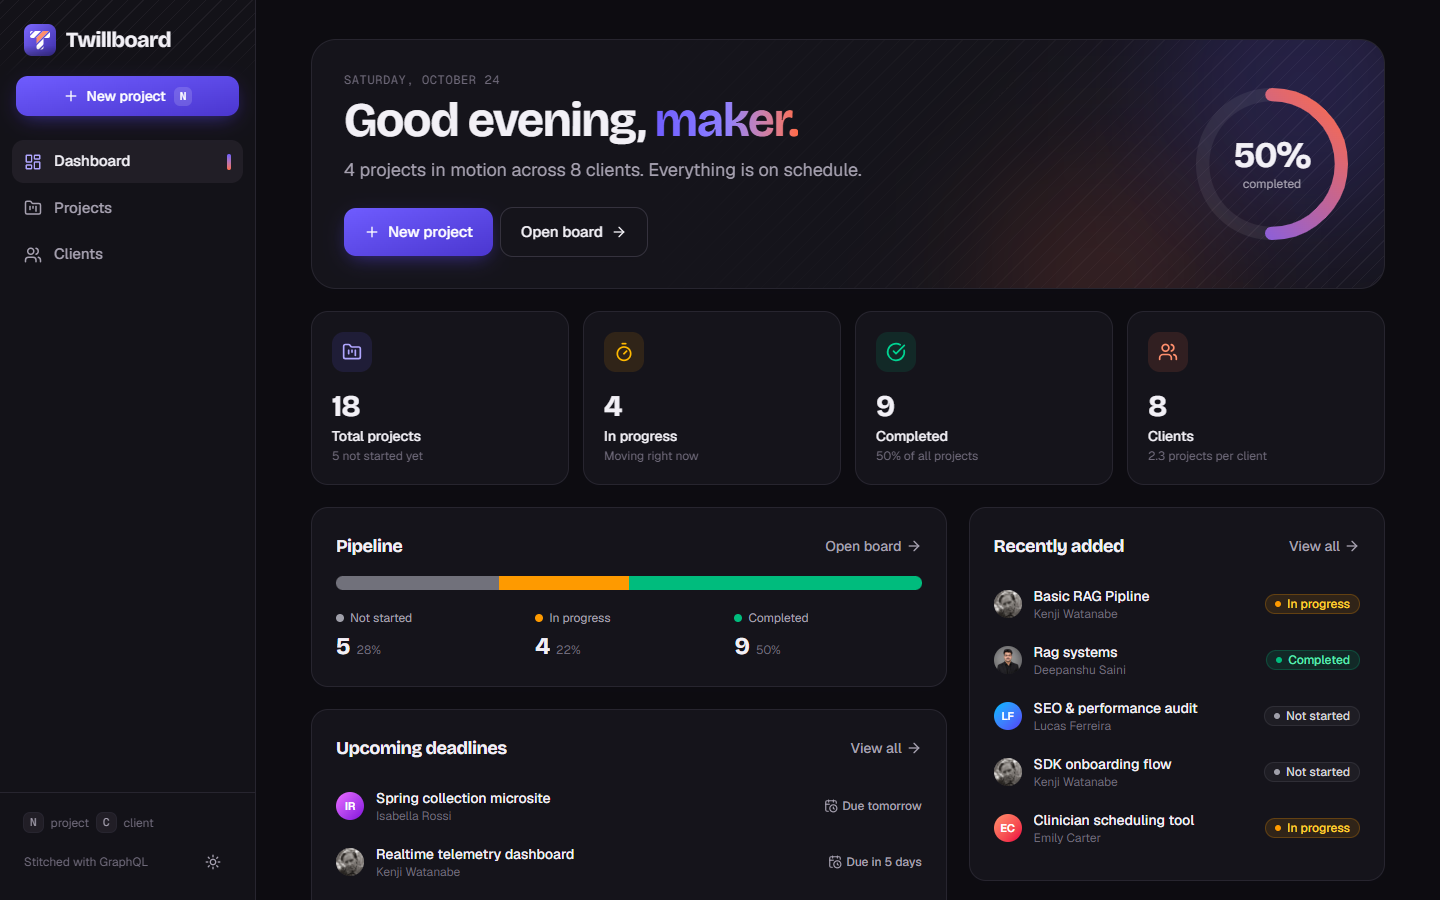
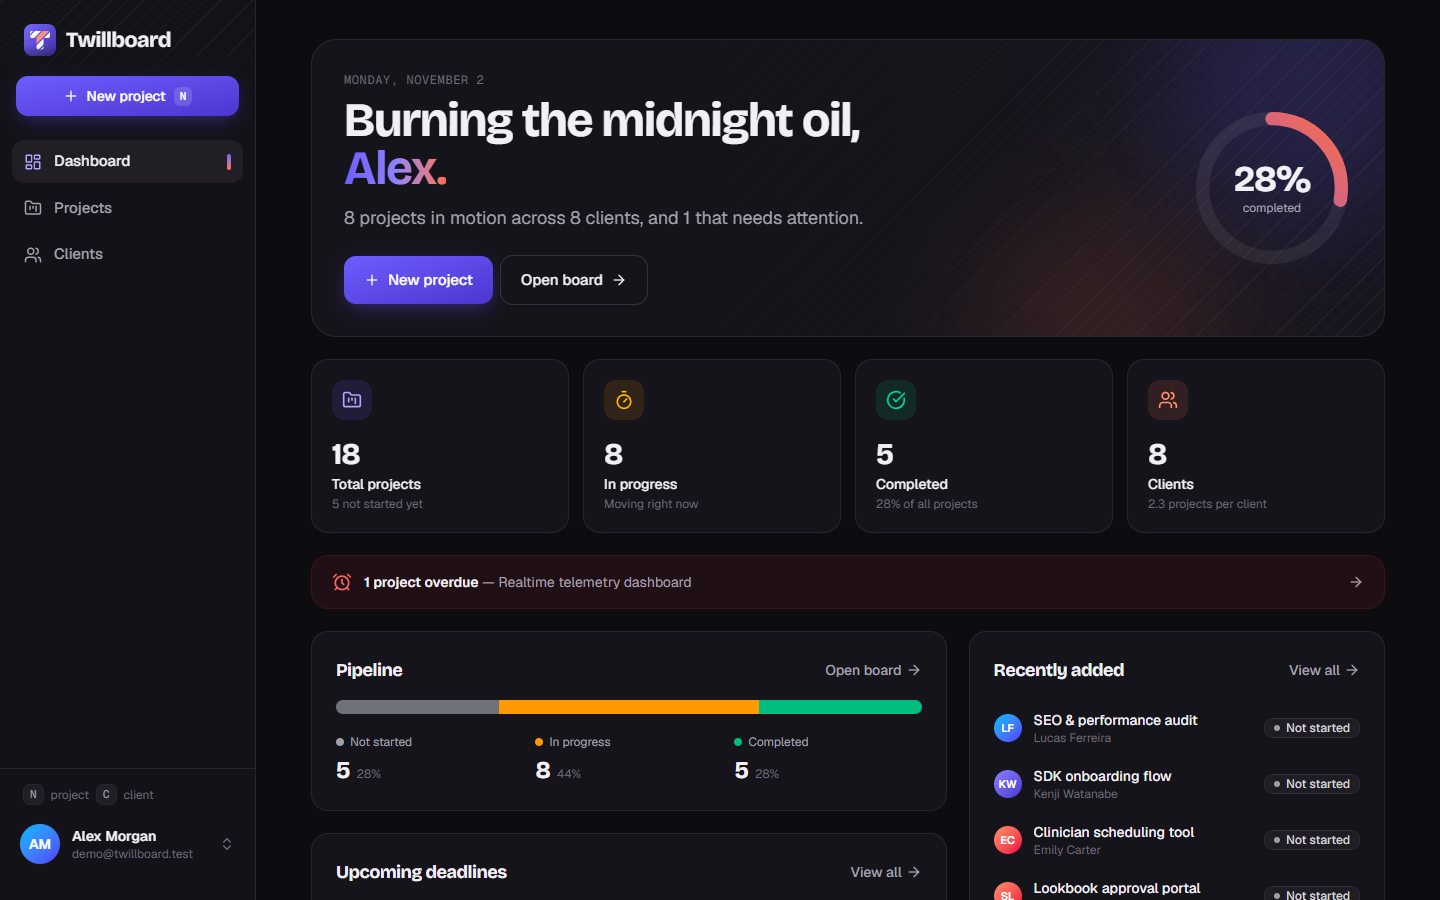
Bring the README up to date with the current app
Retake the screenshots, which predated accounts, and add new ones. Document
the features, environment variables, REST endpoints and deployment steps
added since the last update, and link the live app.

diff --git a/README.md b/README.md
@@ -8,12 +8,16 @@
 
 A calm, fast project manager for freelancers and small studios — built with React 19, GraphQL, Express 5 and MongoDB.
 
+**[Open the live app →](https://twillboard.vercel.app)**
+
 ![React](https://img.shields.io/badge/React-19-61dafb?logo=react&logoColor=white)
 ![GraphQL](https://img.shields.io/badge/GraphQL-Yoga-e10098?logo=graphql&logoColor=white)
 ![Express](https://img.shields.io/badge/Express-5-000?logo=express&logoColor=white)
 ![MongoDB](https://img.shields.io/badge/MongoDB-Mongoose_9-47a248?logo=mongodb&logoColor=white)
 ![Tailwind](https://img.shields.io/badge/Tailwind_CSS-4-38bdf8?logo=tailwindcss&logoColor=white)
 ![Vite](https://img.shields.io/badge/Vite-8-646cff?logo=vite&logoColor=white)
+![Better Auth](https://img.shields.io/badge/Auth-Better_Auth-111?logoColor=white)
+![Vercel](https://img.shields.io/badge/Deployed_on-Vercel-000?logo=vercel&logoColor=white)
 
 <br />
 
@@ -23,32 +27,65 @@ A calm, fast project manager for freelancers and small studios — built with Re
 
 ## Features
 
-- **Accounts** — sign up with email and password or with Google, GitHub or Microsoft. Email verification, password reset, linked sign-in methods, active-session management and account deletion. Every workspace is private.
-- **Dashboard** — greeting, completion ring, stat tiles, pipeline breakdown, upcoming deadlines, recent projects and top clients.
-- **Kanban board** — drag cards between *Not started → In progress → Completed*. Updates are optimistic (instant) and roll back if the server rejects them.
-- **Grid view with filters** — full-text search, status / priority filters and sorting. Every filter lives in the URL, so views are shareable and survive a refresh.
+**Accounts**
+
+- **Sign in your way** — email and password, or Google, GitHub and Microsoft. Every workspace is private to its account.
+- **Email flows** — verification on sign-up, password reset, and a notice if someone tries to register with your address.
+- **Account page** — name and profile photo (uploaded from your device), linked sign-in methods, password change, a list of signed-in devices you can sign out, and account deletion.
+- **Clear feedback** — a "Signing out…" dialog, friendly messages for failed or cancelled provider sign-ins, and social buttons that reset if you come back with the browser's Back button.
+- **Privacy policy** — a public page at [`/privacy`](https://twillboard.vercel.app/privacy), linked from the sign-in screens.
+
+**Work**
+
+- **Dashboard** — time-of-day greeting, completion ring, stat tiles, overdue alert, pipeline breakdown, upcoming deadlines, recently added projects and top clients.
+- **Kanban board** — drag cards between *Not started → In progress → Completed*, or add a project straight into a column. Updates are optimistic (instant) and roll back if the server rejects them.
+- **Grid view with filters** — full-text search, status and priority filters, and sorting. Every filter lives in the URL, so views are shareable and survive a refresh.
 - **Projects** — priority, due dates with “due in 3 days” / overdue tracking, and a one-click status switcher.
-- **Clients** — profiles with contact links, company, and a progress thread showing how their projects are going. Deleting a client tells you exactly how many projects go with them.
-- **Validation everywhere** — instant client-side checks that mirror the server's Mongoose rules, with server errors mapped back onto the right field.
+- **Clients** — searchable profiles with contact links, company, and a progress thread showing how their projects are going. Photos can be uploaded or linked by URL, and fall back to coloured initials.
+- **New client wizard** — enter the client's details, then optionally add their first project in the same dialog, or just add the client for now.
+- **Safe deletes** — deleting a client or project asks you to type its name first. Deleting a client also tells you exactly how many projects go with them.
+
+**Files**
+
+- **Attachments** — images, videos, PDFs and Office documents, added while creating or editing a project or on its page. Up to 20 files per project, 10 MB each (videos 100 MB).
+- **Direct uploads** — files go straight to Cloudinary with live progress. A failed upload offers **Retry**, and files from a cancelled form are cleaned up.
+- **Attachment viewer** — images, videos and PDFs preview in-app, and Office files open in Microsoft's online viewer. Previews load lazily over a blurred thumbnail with their space reserved, so the dialog doesn't jump. Move between files with the arrow keys, open them in a new tab, or download them.
+
+**Interface**
+
 - **Light & dark themes** — follows your OS, remembers your choice, no flash on load.
-- **Attachments** — add images, videos, PDFs and Office documents while creating or editing a project, or on its page. Uploads go straight to Cloudinary with live progress; images, videos and PDFs preview in-app, Office files open in Microsoft's online viewer.
-- **Client photos** — upload from the device or paste an image URL; falls back to coloured initials.
+- **Custom controls** — themed dropdowns and a date picker with shortcuts like *Tomorrow* and *Next week*.
 - **Keyboard shortcuts** — <kbd>N</kbd> new project, <kbd>C</kbd> new client.
+- **Validation everywhere** — instant client-side checks that mirror the server's Mongoose rules, with server errors mapped back onto the right field.
 - **Responsive** — sidebar on desktop, top bar + floating tab bar on mobile.
 - **Accessible** — native `<dialog>` modals (focus trap, <kbd>Esc</kbd>), labelled controls, `aria-invalid` errors, reduced-motion support.
 
+### Screenshots
+
 <table>
   <tr>
-    <td><img src="docs/screenshots/board-light.png" alt="Kanban board" /></td>
-    <td><img src="docs/screenshots/dashboard-dark.png" alt="Dashboard in dark mode" /></td>
+    <td width="50%"><img src="docs/screenshots/board-light.png" alt="Kanban board" /><br /><sub>Kanban board</sub></td>
+    <td width="50%"><img src="docs/screenshots/grid-dark.png" alt="Grid view with filters in dark mode" /><br /><sub>Grid view with filters</sub></td>
   </tr>
   <tr>
-    <td><img src="docs/screenshots/new-project-modal.png" alt="New project dialog" /></td>
-    <td><img src="docs/screenshots/project-detail-dark.png" alt="Project detail in dark mode" /></td>
+    <td><img src="docs/screenshots/dashboard-dark.png" alt="Dashboard in dark mode" /><br /><sub>Dashboard in dark mode</sub></td>
+    <td><img src="docs/screenshots/clients-light.png" alt="Clients" /><br /><sub>Clients</sub></td>
   </tr>
   <tr>
-    <td><img src="docs/screenshots/clients-light.png" alt="Clients" /></td>
-    <td align="center"><img src="docs/screenshots/mobile-dark.png" alt="Mobile" width="45%" /></td>
+    <td><img src="docs/screenshots/new-client-wizard.png" alt="New client dialog, on the optional first project step" /><br /><sub>New client, with an optional first project</sub></td>
+    <td><img src="docs/screenshots/new-project-modal.png" alt="New project dialog" /><br /><sub>New project</sub></td>
+  </tr>
+  <tr>
+    <td><img src="docs/screenshots/project-detail-dark.png" alt="Project page with attachments in dark mode" /><br /><sub>Project page with attachments</sub></td>
+    <td><img src="docs/screenshots/attachment-viewer.png" alt="Attachment viewer" /><br /><sub>Attachment viewer</sub></td>
+  </tr>
+  <tr>
+    <td><img src="docs/screenshots/sign-in-light.png" alt="Sign-in page" /><br /><sub>Sign in</sub></td>
+    <td><img src="docs/screenshots/account-dark.png" alt="Account page in dark mode" /><br /><sub>Account</sub></td>
+  </tr>
+  <tr>
+    <td><img src="docs/screenshots/delete-confirm.png" alt="Typed confirmation before deleting a project" /><br /><sub>Type the name to delete</sub></td>
+    <td align="center"><img src="docs/screenshots/mobile-dark.png" alt="Mobile layout in dark mode" width="45%" /><br /><sub>Mobile</sub></td>
   </tr>
 </table>
 
@@ -62,6 +99,7 @@ A calm, fast project manager for freelancers and small studios — built with Re
 | Database | MongoDB Atlas via Mongoose 9 with schema validation, timestamps and indexes |
 | Auth | Better Auth (self-hosted, MongoDB adapter): email/password + OAuth (Google, GitHub, Microsoft), Gmail SMTP via Nodemailer |
 | Files | Cloudinary signed direct uploads, on-the-fly thumbnails, automatic cleanup on delete |
+| Hosting | Vercel (CDN + one Vercel Function), MongoDB Atlas, Cloudinary |
 | Runtime | Node.js 24 LTS (built-in `--watch` and `--env-file`, no nodemon/dotenv) |
 
 ### Architecture notes
@@ -71,6 +109,7 @@ A calm, fast project manager for freelancers and small studios — built with Re
 - **Typed enums end to end.** `ProjectStatus` / `ProjectPriority` are GraphQL enums mapped to the strings stored in MongoDB.
 - **Safe errors.** Validation, bad IDs and duplicate emails become `BAD_USER_INPUT` errors with per-field messages; unexpected errors are masked in production.
 - **Fail fast.** The server validates its environment and database connection at startup with clear messages, and shuts down gracefully.
+- **Built for serverless.** The app and its database connection are created once per function instance and reused. Emails and auth background work use `waitUntil`, so they finish after the response is sent.
 - **Optional features degrade gracefully.** `GET /api/config` tells the client what's enabled; with no file storage configured, upload controls simply don't appear.
 - **Uploads never touch the API.** The server signs a short-lived Cloudinary upload restricted to the user's own folder; the browser uploads directly, and GraphQL only accepts metadata for files in that folder.
 
@@ -87,13 +126,14 @@ A calm, fast project manager for freelancers and small studios — built with Re
 | **OAuth** | Google, GitHub and Microsoft with `state` + PKCE. Provider tokens are stored encrypted (XChaCha20-Poly1305). Accounts link automatically only when the provider has verified the email. |
 | **CSRF & redirects** | Auth requests are checked against trusted origins (Origin + Fetch Metadata); `callbackURL`s outside the app are refused, and the client only follows same-app redirects. |
 | **Authorization** | Every client, project and file has an owner. All reads and writes are scoped to the signed-in user, so another user's ID behaves like one that doesn't exist. |
-| **API hardening** | GraphQL depth (8) and alias (15) limits, 100 KB request cap, schema introspection and "did you mean" hints disabled in production, unexpected errors masked. |
-| **Headers** | Helmet with a strict Content-Security-Policy (no inline scripts), HSTS, `frame-ancestors 'none'`, `nosniff` and a strict referrer policy in production. |
+| **Uploads** | Short-lived signatures per account (60 / minute), restricted to the user's own folder. A file is only saved if its URL is exactly that user's upload. Profile photos are upload-only and can't be set to an arbitrary link. |
+| **API hardening** | GraphQL depth (8) and alias (15) limits, a 100 KB request cap enforced by counting bytes, schema introspection and "did you mean" hints disabled in production, unexpected errors masked. |
+| **Headers** | A strict Content-Security-Policy (no inline scripts), HSTS, `frame-ancestors 'none'`, `nosniff` and a strict referrer policy in production: set by Helmet for the API and by [`vercel.json`](vercel.json) for the app pages on the CDN. |
 | **Configuration** | The server refuses to start in production without an `https://` `APP_URL`, a 32+ character secret and email settings. |
 
 ## Getting started
 
-**Requirements:** Node.js 24+ and a free [MongoDB Atlas](https://www.mongodb.com/atlas) cluster (or a local MongoDB).
+**Requirements:** Node.js 24 and a free [MongoDB Atlas](https://www.mongodb.com/atlas) cluster (or a local MongoDB).
 
 ```bash
 git clone https://github.com/thedeepanshu/project-management-app.git
@@ -137,22 +177,25 @@ Each provider is optional; its button appears once both values are in `.env`. Re
 | `MONGO_URI` | ✅ | MongoDB connection string |
 | `BETTER_AUTH_SECRET` | ✅ | 32+ random characters; signs sessions and encrypts OAuth tokens |
 | `APP_URL` | ✅ | Public URL of the app (`http://localhost:5180` in development, `https://…` in production) |
-| `SMTP_USER` / `SMTP_PASS` | prod | Gmail address and app password for verification and reset emails |
+| `SMTP_USER` / `SMTP_PASS` | prod | Gmail address and app password for verification and reset emails. The address is also the contact shown on the privacy page |
+| `EMAIL_FROM` | | Sender shown on emails, e.g. `Twillboard <you@gmail.com>` (default: `SMTP_USER`) |
 | `GOOGLE_*`, `GITHUB_*`, `MICROSOFT_*` | | OAuth client ID/secret pairs; each enables its sign-in button |
+| `MICROSOFT_TENANT_ID` | | Restricts Microsoft sign-in to one directory (default: `common`) |
 | `PORT` | | API port (default `5000`) |
 | `NODE_ENV` | | `production` enables strict headers, disables GraphiQL and serves the built client |
 | `CLIENT_ORIGIN` | | Extra comma-separated origins allowed by CORS, if the app is hosted on a separate domain |
-| `CLOUDINARY_URL` | | Enables attachments and photo uploads. Free account at [cloudinary.com](https://cloudinary.com) |
+| `CLOUDINARY_URL` | | Enables attachments, client photos and profile photos. Free account at [cloudinary.com](https://cloudinary.com) |
 
 ## Deploying to Vercel
 
 Everything runs in one Vercel project on one domain: the React app from the CDN, and `/api/*` + `/graphql` from a single Vercel Function (`api/index.js`, configured in [`vercel.json`](vercel.json)). Same origin means the session cookie is first-party and there's no CORS to configure.
 
-1. **Atlas → Network Access:** allow `0.0.0.0/0` (Vercel's IPs aren't fixed). Use a database user with a strong password, limited to this database.
-2. **Vercel → Add New Project →** import the GitHub repo. Leave *Root Directory* as the repo root; `vercel.json` sets the build (`npm run build`), output (`client/dist`) and function.
+1. **Atlas → Network Access:** allow `0.0.0.0/0` (Vercel's IPs aren't fixed). Use a database user with a strong password, limited to this database. For a brand-new database, run `npm run db:setup` once with `MONGO_URI` pointing at it.
+2. **Vercel → Add New Project →** import the GitHub repo. Leave *Root Directory* as the repo root; `vercel.json` sets the install (`npm ci --include=dev`, because `NODE_ENV=production` would otherwise skip the build tools), build (`npm run build`), output (`client/dist`) and function.
 3. **Environment variables** (Production): `NODE_ENV=production`, `MONGO_URI`, `BETTER_AUTH_SECRET` (a new one for production), `APP_URL=https://<your-project>.vercel.app`, `SMTP_USER`, `SMTP_PASS`, `EMAIL_FROM`, `CLOUDINARY_URL`, and the OAuth pairs.
 4. **Deploy**, then open `https://<your-project>.vercel.app/health`: it should say `{"status":"ok","db":true}`.
-5. **OAuth providers:** add `https://<your-project>.vercel.app/api/auth/callback/<provider>` (Google also needs the domain under *Authorized JavaScript origins*; GitHub allows one callback per app, so create a separate production app).
+5. **OAuth providers:** add `https://<your-project>.vercel.app/api/auth/callback/<provider>`, including the `/api` part: providers compare the whole URL exactly. Google also needs the domain under *Authorized JavaScript origins*; GitHub allows one callback per app, so create a separate production app.
+6. **Publish the Google consent screen:** on the *Branding* page, set the app name, support email, home page, authorized domain and privacy policy (`https://<your-project>.vercel.app/privacy`), then choose *Audience → Publish app*. Until then, only listed test users can sign in with Google.
 
 `APP_URL` must be the exact domain people use: email links, OAuth callbacks and the allowed origin all come from it. If you add a custom domain later, update `APP_URL` and the provider callbacks, then redeploy. Preview deployments use other URLs, so sign-in only works on the production domain.
 
@@ -179,17 +222,28 @@ mutation {
 
 Full schema: [`server/graphql/typeDefs.js`](server/graphql/typeDefs.js).
 
+### REST endpoints
+
+| Endpoint | Purpose |
+|---|---|
+| `GET /health` | Status and database connection |
+| `GET /api/config` | Which features are enabled (public) |
+| `POST /api/uploads/signature` | Signs a direct upload to Cloudinary (signed in) |
+| `POST` / `DELETE /api/profile/photo` | Saves or removes the profile photo (signed in) |
+| `/api/auth/*` | Better Auth: sign-in, sign-up, sessions, OAuth callbacks |
+
 ## Project structure
 
 ```
 ├── api/index.js       # Vercel Function: serves the whole API
 ├── vercel.json        # Vercel build, rewrites and security headers
+├── docs/screenshots/  # images used in this README
 ├── server/
 │   ├── auth/          # Better Auth config, account-deletion cleanup
-│   ├── config/        # env validation, MongoDB connection
+│   ├── config/        # env validation, MongoDB connection, startup migrations
 │   ├── graphql/       # typeDefs, owner-scoped resolvers, DataLoaders, query limits, errors
 │   ├── models/        # Mongoose schemas with validation
-│   ├── routes/api.js  # /api: feature config, upload signatures
+│   ├── routes/api.js  # /api: feature config, upload signatures, profile photo
 │   ├── services/      # Cloudinary signing & cleanup, transactional email
 │   ├── scripts/       # db:setup, seed, db:assign-owner
 │   ├── app.js         # createApp(): Express + security headers + auth + GraphQL Yoga
@@ -198,10 +252,11 @@ Full schema: [`server/graphql/typeDefs.js`](server/graphql/typeDefs.js).
     ├── public/        # favicon, app icons, manifest, social image, theme bootstrap
     └── src/
         ├── components/  # ui primitives, layout, auth, projects, clients, attachments, brand
+        ├── context/     # workspace context (opens the new project and new client dialogs)
         ├── graphql/     # queries, mutations, fragments
         ├── hooks/       # useForm, useTheme, usePopover, useAppConfig…
         ├── lib/         # Apollo + auth clients, REST helpers, uploads, formatting, validation
-        └── pages/       # app pages, Account, and auth/ (sign in, sign up, reset…)
+        └── pages/       # app pages, Account, Privacy, and auth/ (sign in, sign up, reset…)
 ```
 
 ---
